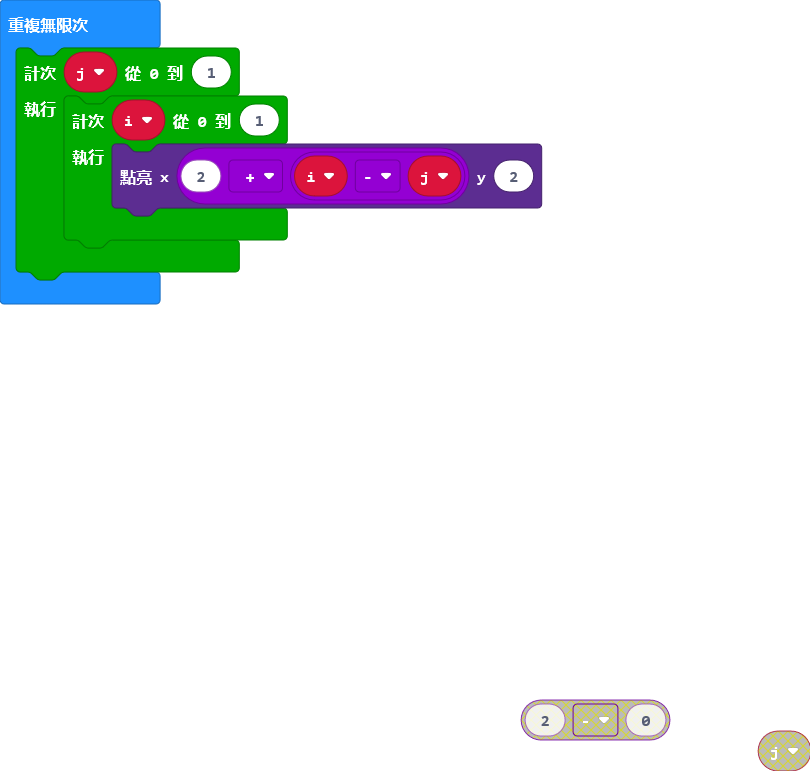
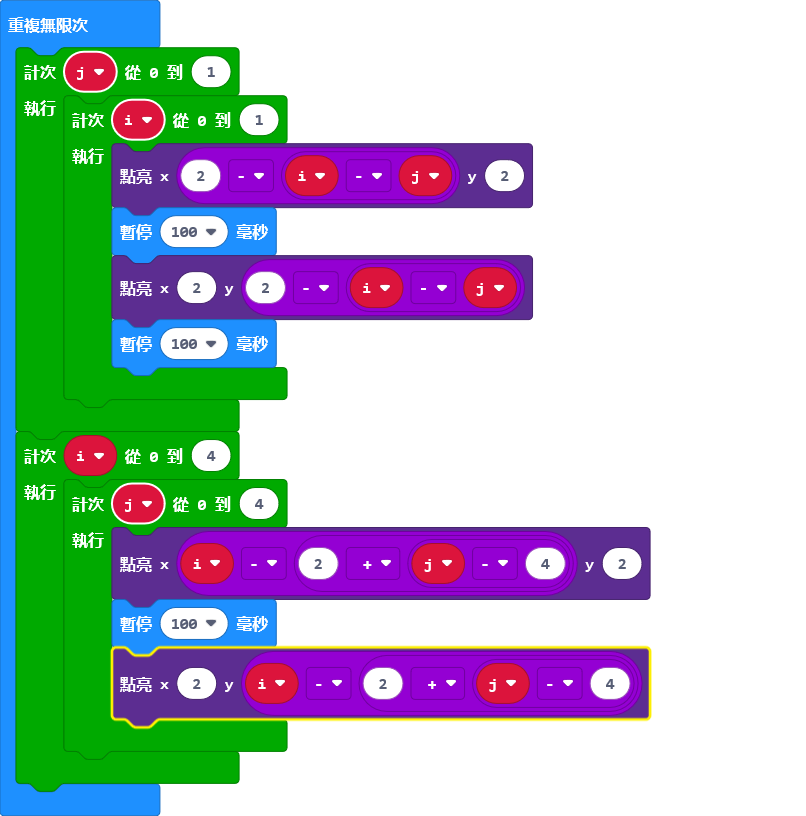
Update main.blocks, main.ts

diff --git a/main.ts b/main.ts
@@ -1,7 +1,17 @@
 basic.forever(function () {
     for (let j = 0; j <= 1; j++) {
         for (let i = 0; i <= 1; i++) {
-            led.plot(2 + (i - j), 2)
+            led.plot(2 - (i - j), 2)
+            basic.pause(100)
+            led.plot(2, 2 - (i - j))
+            basic.pause(100)
+        }
+    }
+    for (let i = 0; i <= 4; i++) {
+        for (let j = 0; j <= 4; j++) {
+            led.plot(i - (2 + (j - 4)), 2)
+            basic.pause(100)
+            led.plot(2, i - (2 + (j - 4)))
         }
     }
 })
